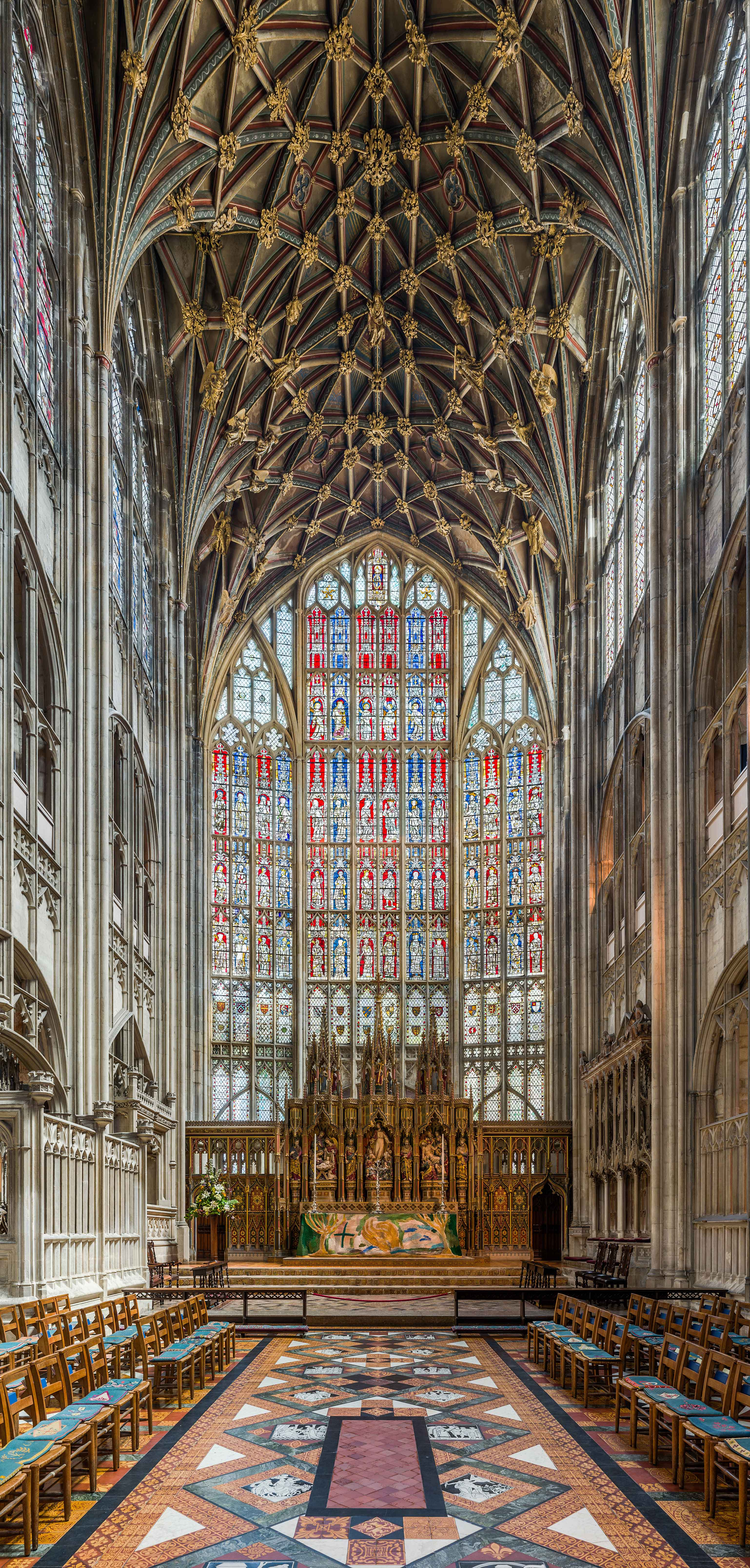
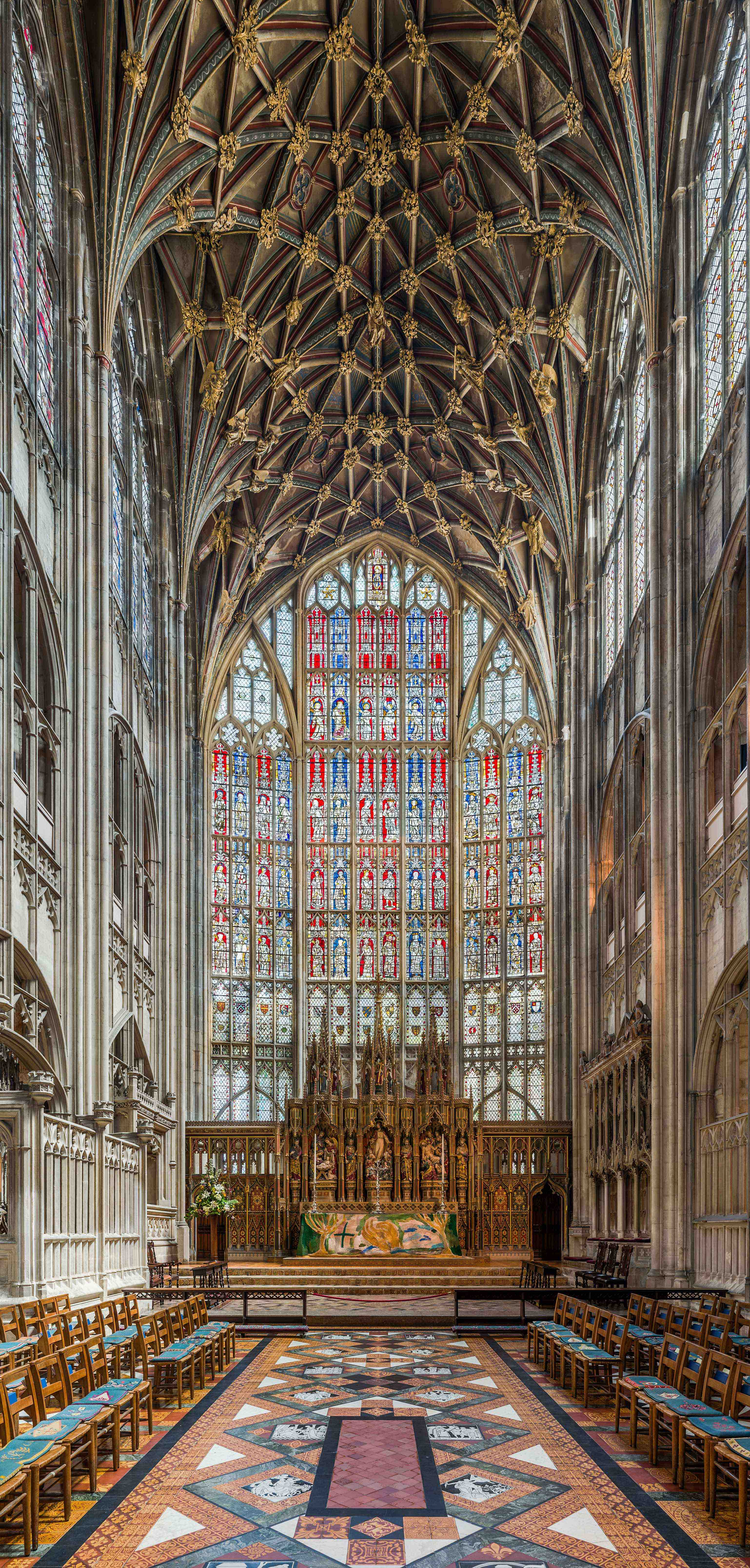
bug fixes and image size optimisations

diff --git a/gallery/roman/index.html b/gallery/roman/index.html
@@ -141,7 +141,7 @@
         <div id="scene6" class="scene">
             <img style="height: 100%; display: block; margin: auto;" src="maison_carree_6.jpg">
         </div>
-        <div id="scene7" class="container label" style="width: 100vw; background-color: white;">
+        <div id="scene7" class="container label" style="padding: 15vh calc((100vw - 960px) / 2); max-width: 100vw; background-color: white;">
             <div class="row">
                 <div class="twelve columns">
                         <p style="font-family: 'Cinzel'; font-size: 2em; font-weight: 500; color: #E1D2BF; text-transform: uppercase; letter-spacing: 2px;">Maison Carée</p>

diff --git a/gallery/renaissance/index.html b/gallery/renaissance/index.html
@@ -132,10 +132,10 @@
         <div id="scene1" class="scene">
         	<div id="pin0">
 	            <div id="pin1" class="pin">
-	                <img style="width: 100%; display:block;" src="tdotk.png">
+	                <img style="width: 100%; display:block;" src="tdotk.jpg">
 	            </div>
 	            <div id="pin2" class="pin">
-	                <img style="width: 100%; display:block;" src="tdotk_grid.png">
+	                <img style="width: 100%; display:block;" src="tdotk_grid.jpg">
 	            </div>
             </div>
         </div>

diff --git a/gallery/impressionism/index.html b/gallery/impressionism/index.html
@@ -77,7 +77,7 @@
         .pin
         {
             position: absolute;
-            top: -50vh;
+            top: -55vh;
         }
 
         .label
